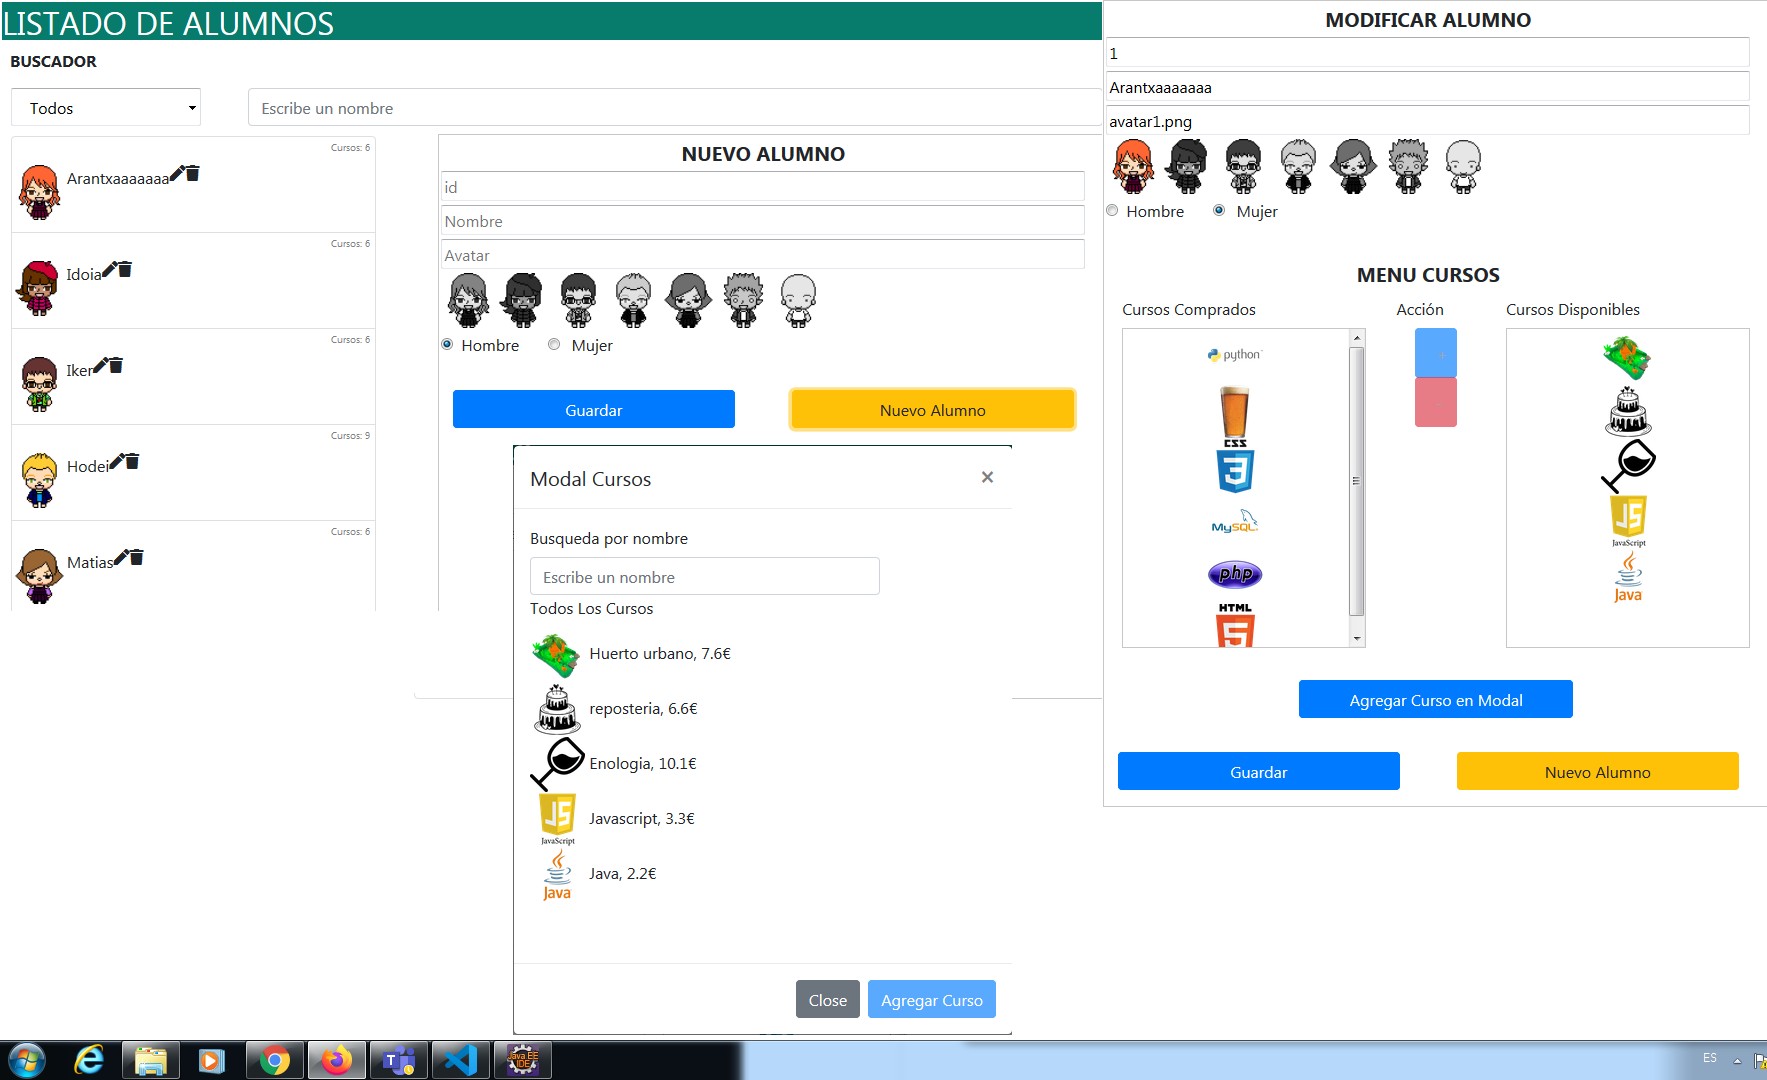
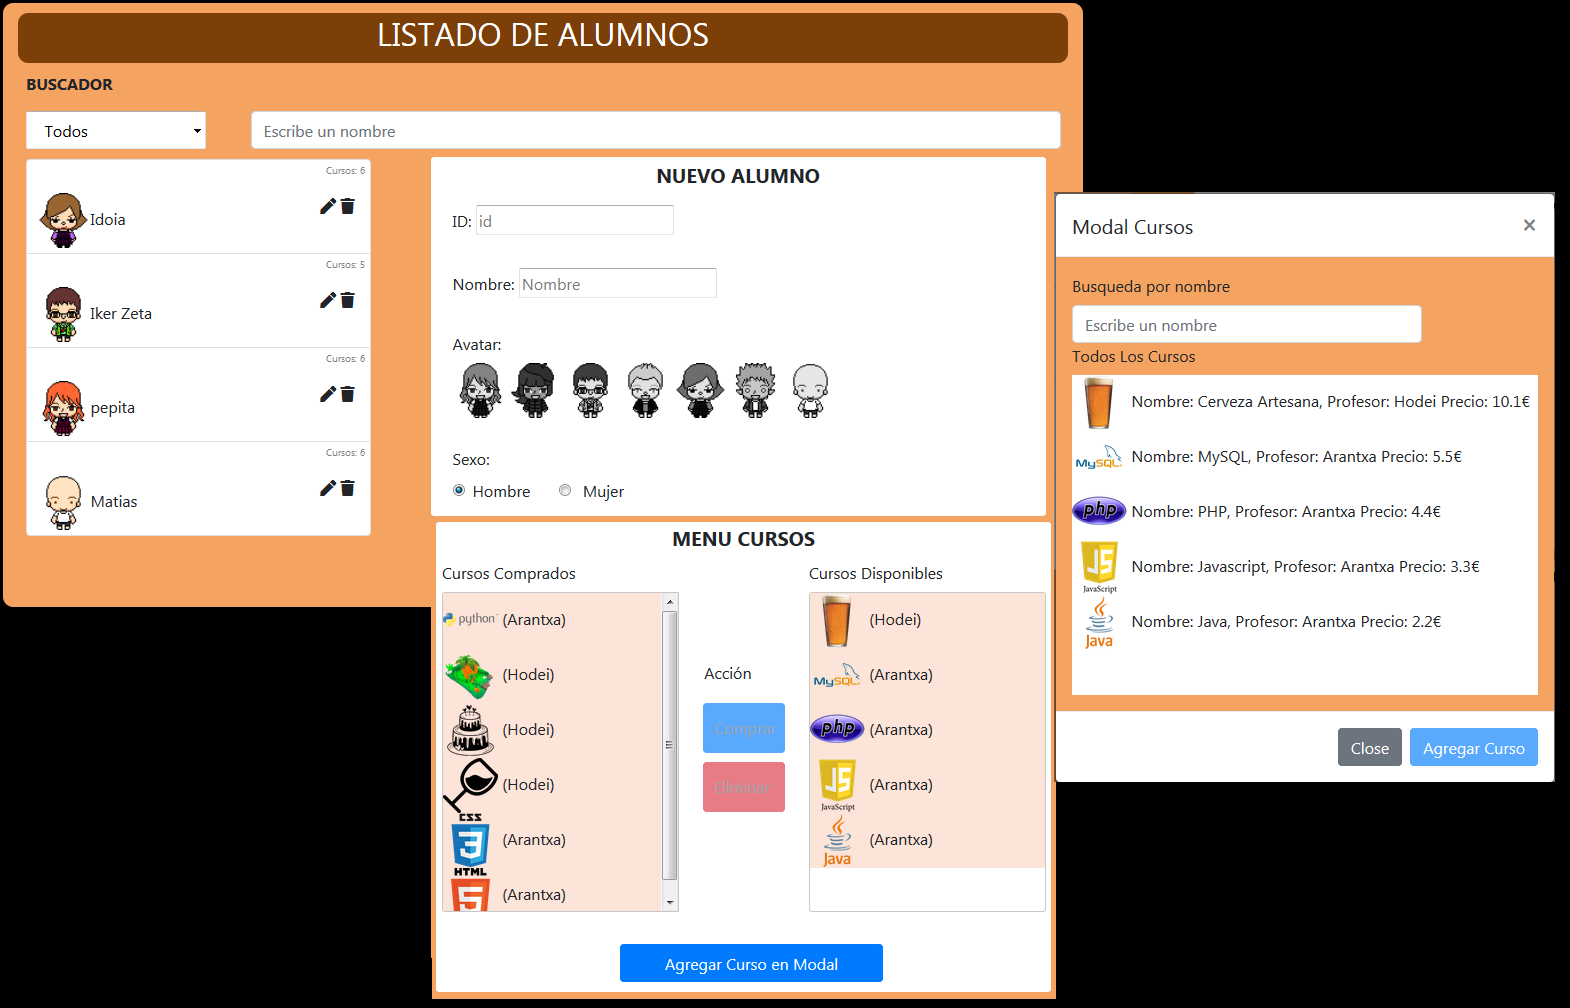
cambio screenshot y padding body

diff --git a/Prueba_Alumnos_Profesores/appcliente/css/prueba.css b/Prueba_Alumnos_Profesores/appcliente/css/prueba.css
@@ -17,6 +17,8 @@ body {
     width: 1080px !important;
     align-content: center;
     margin: auto;
+    padding-top: 10px;
+    padding-bottom: 10px;
 }
 
 main {
